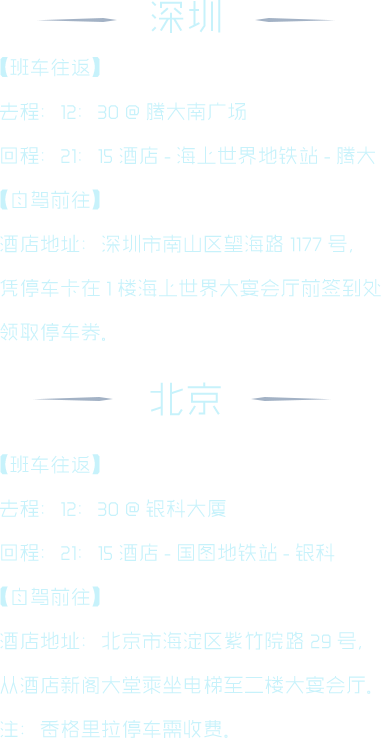
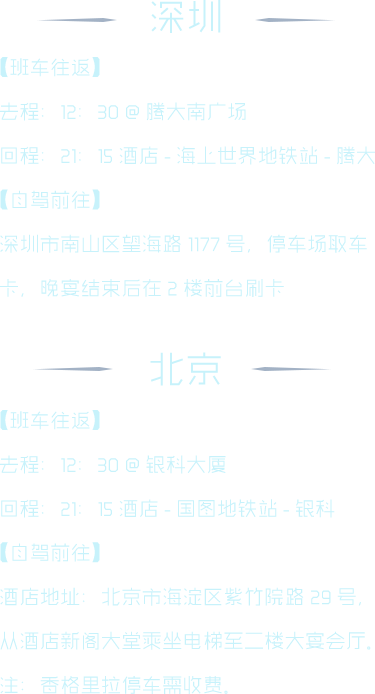
修改班车文案
修改班车文案

diff --git a/app/css/main.css b/app/css/main.css
@@ -616,8 +616,8 @@ body {
 }
 
 #bc-detail {
-  width: 381px;
-  height: 738px;
+  width: 375px;
+  height: 694px;
 }
 
 #end-content1 {
